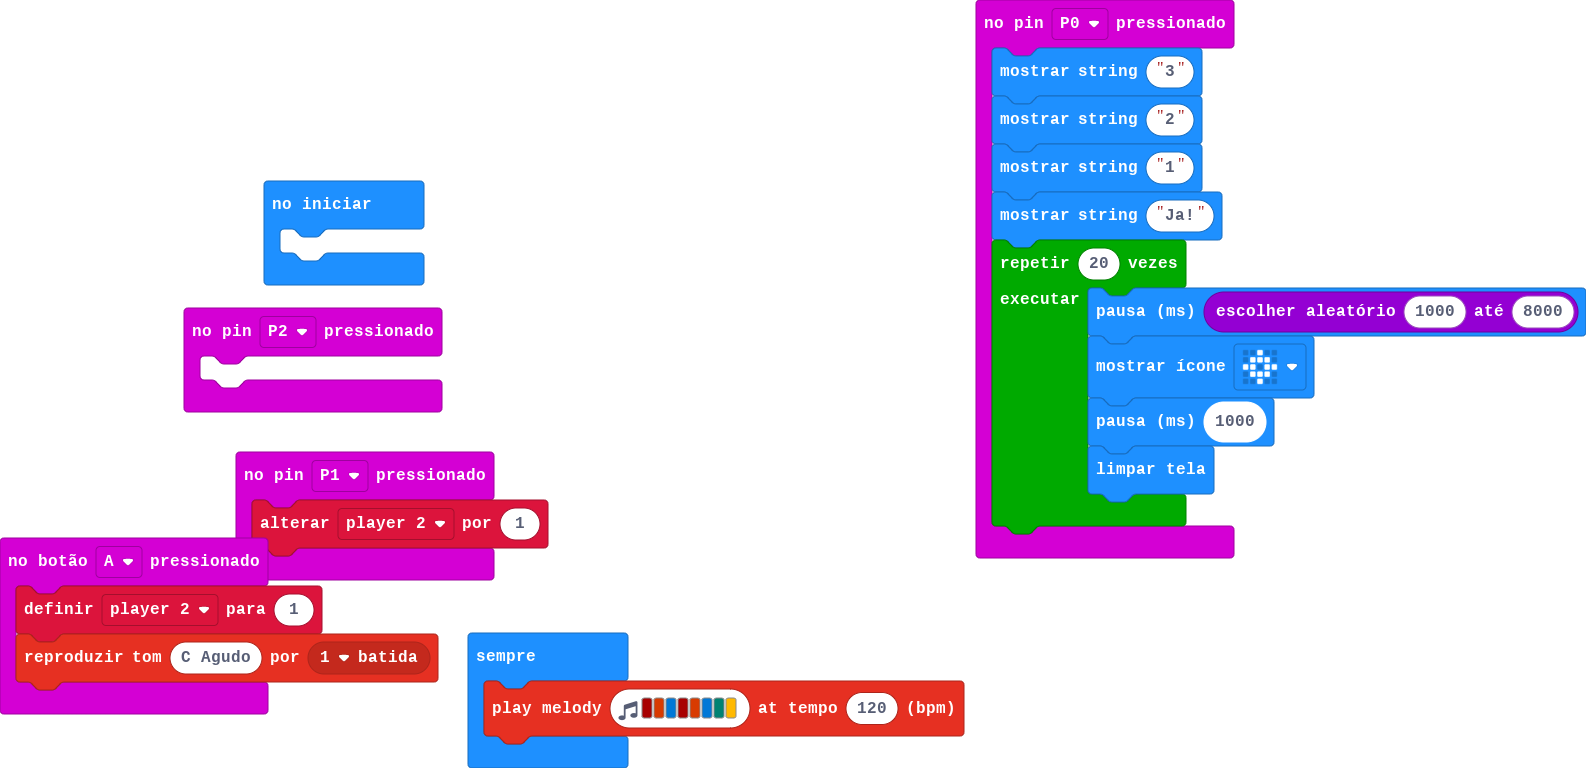
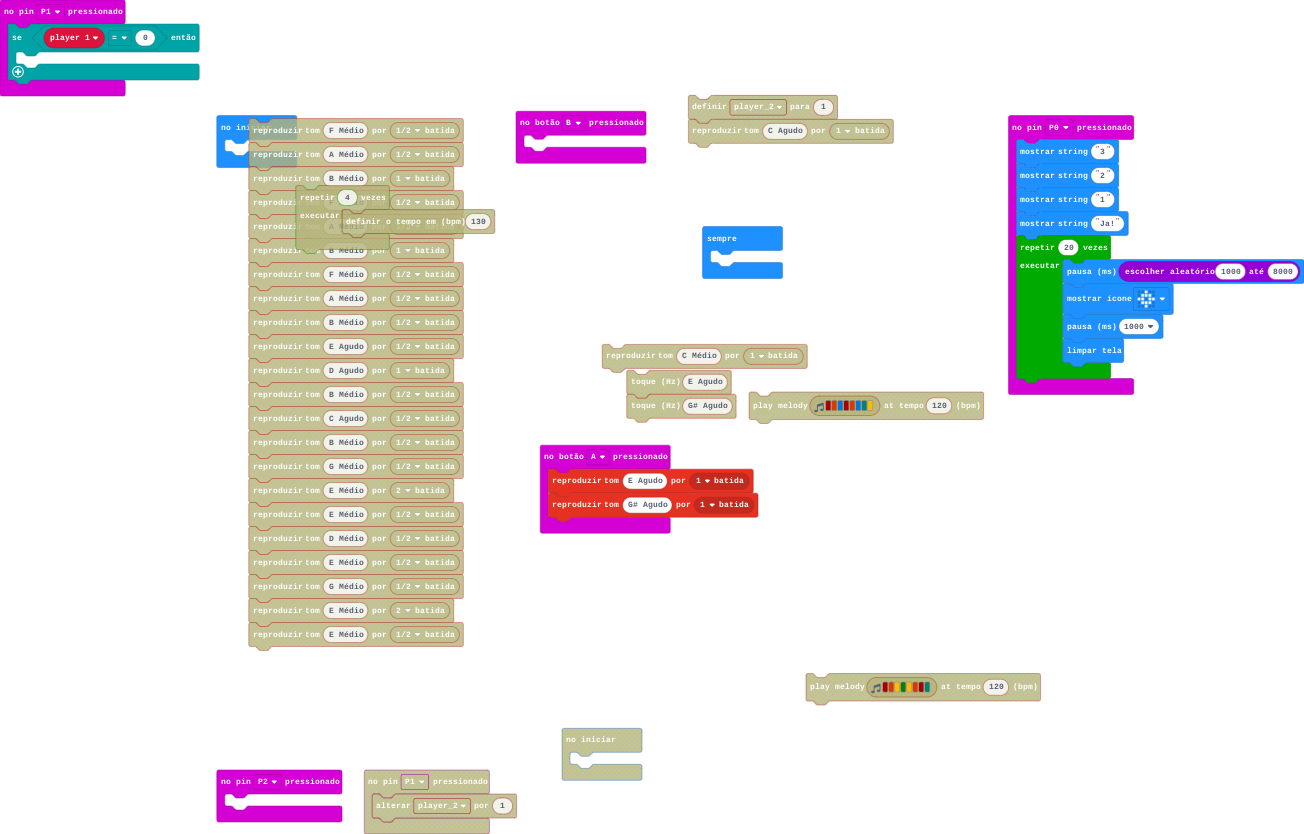
Atualizar 'main.blocks, main.ts'

diff --git a/main.ts b/main.ts
@@ -1,4 +1,3 @@
-let player_2 = 0
 input.onPinPressed(TouchPin.P0, function () {
     basic.showString("3")
     basic.showString("2")
@@ -12,15 +11,21 @@ input.onPinPressed(TouchPin.P0, function () {
     }
 })
 input.onButtonPressed(Button.A, function () {
-    player_2 = 1
-    music.playTone(523, music.beat(BeatFraction.Whole))
+    music.playTone(659, music.beat(BeatFraction.Whole))
+    music.playTone(831, music.beat(BeatFraction.Whole))
 })
 input.onPinPressed(TouchPin.P2, function () {
 	
 })
+input.onButtonPressed(Button.B, function () {
+	
+})
 input.onPinPressed(TouchPin.P1, function () {
-    player_2 += 1
+    let player_1 = 0
+    if (player_1 == 0) {
+    	
+    }
 })
 basic.forever(function () {
-    music.playMelody("C5 B E C5 B E F A ", 120)
+	
 })
